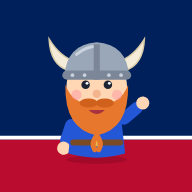
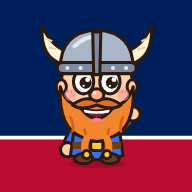
Bjørn im Chibi-Cartoon-Stil
Claude-Session: https://claude.ai/code/session_01EWWKx9F14VDz1Kb1QUJoeS

Changed region(s): [[0.1875, 0.125, 0.8125, 0.875]]

diff --git a/viking.js b/viking.js
@@ -3,39 +3,60 @@
 "use strict";
 function svg(mood) {
   const cheer = mood === "cheer", sad = mood === "sad", wave = mood === "happy" || mood === "wave";
+  const O = 'stroke="#2b1a10" stroke-width="3" stroke-linejoin="round" stroke-linecap="round"';
+  // Riesenaugen
   const eyes = cheer
-    ? `<path d="M44 61 Q49 55 54 61" class="vk-line"/><path d="M66 61 Q71 55 76 61" class="vk-line"/>`
-    : `<circle cx="49" cy="60" r="4.2" fill="#1d2433"/><circle cx="71" cy="60" r="4.2" fill="#1d2433"/><circle cx="50.4" cy="58.6" r="1.4" fill="#fff"/><circle cx="72.4" cy="58.6" r="1.4" fill="#fff"/>`;
-  const brows = sad ? `<path d="M43 51 L54 54" class="vk-line"/><path d="M77 51 L66 54" class="vk-line"/>` : "";
+    ? `<path d="M38 60 Q47 49 56 60" ${O} fill="none" stroke-width="4"/><path d="M64 60 Q73 49 82 60" ${O} fill="none" stroke-width="4"/>`
+    : `<ellipse cx="47" cy="57" rx="10" ry="12" fill="#fff" ${O}/><ellipse cx="73" cy="57" rx="10" ry="12" fill="#fff" ${O}/>
+       <circle cx="${sad ? 46 : 49}" cy="${sad ? 61 : 58}" r="6" fill="#2b1a10"/><circle cx="${sad ? 72 : 75}" cy="${sad ? 61 : 58}" r="6" fill="#2b1a10"/>
+       <circle cx="${sad ? 48 : 51}" cy="${sad ? 58 : 55}" r="2.4" fill="#fff"/><circle cx="${sad ? 74 : 77}" cy="${sad ? 58 : 55}" r="2.4" fill="#fff"/>
+       <circle cx="${sad ? 44 : 47}" cy="${sad ? 63 : 61}" r="1.1" fill="#fff"/><circle cx="${sad ? 70 : 73}" cy="${sad ? 63 : 61}" r="1.1" fill="#fff"/>`;
+  const brows = sad
+    ? `<path d="M36 44 Q44 38 54 44" fill="none" stroke="#c4501a" stroke-width="5" stroke-linecap="round" transform="rotate(14 45 42)"/><path d="M66 44 Q76 38 84 44" fill="none" stroke="#c4501a" stroke-width="5" stroke-linecap="round" transform="rotate(-14 75 42)"/>`
+    : `<path d="M36 42 Q45 34 55 41" fill="none" stroke="#c4501a" stroke-width="5" stroke-linecap="round"/><path d="M65 41 Q75 34 84 42" fill="none" stroke="#c4501a" stroke-width="5" stroke-linecap="round"/>`;
   const mouth = sad
-    ? `<path d="M53 88 Q60 84 67 88" class="vk-line"/>`
-    : cheer ? `<path d="M50 84 Q60 98 70 84 Z" fill="#a8323e"/><path d="M54 90 Q60 94 66 90" fill="#f08a96"/>`
-    : `<path d="M52 85 Q60 93 68 85 Z" fill="#a8323e"/>`;
-  // Arme: links/rechts, angehoben beim Jubeln, rechts winkt
-  const armL = cheer ? `rotate(-140 36 96)` : `rotate(18 36 96)`;
-  const armR = cheer ? `rotate(140 84 96)` : wave ? `rotate(-130 84 96)` : `rotate(-18 84 96)`;
-  return `<svg viewBox="0 0 120 140" aria-hidden="true">
-  <ellipse cx="60" cy="134" rx="30" ry="4" fill="rgba(0,0,0,.12)"/>
-  <g transform="${armL}"><rect x="30" y="94" width="12" height="28" rx="6" fill="#2457d6"/><circle cx="36" cy="124" r="6.5" fill="#ffd7b5"/></g>
-  <g class="${wave && !cheer ? "vk-wave" : ""}" style="transform-origin:84px 96px"><g transform="${armR}"><rect x="78" y="94" width="12" height="28" rx="6" fill="#2457d6"/><circle cx="84" cy="124" r="6.5" fill="#ffd7b5"/>
-    ${cheer ? `<g transform="translate(80 120) rotate(180)"><rect x="-1" y="0" width="2" height="24" fill="#8a5a2b"/><rect x="1" y="0" width="16" height="11" fill="#ba0c2f"/><rect x="5" y="0" width="3" height="11" fill="#fff"/><rect x="1" y="4" width="16" height="3" fill="#fff"/><rect x="5.8" y="0" width="1.4" height="11" fill="#00205b"/><rect x="1" y="4.8" width="16" height="1.4" fill="#00205b"/></g>` : ""}</g></g>
-  <path d="M36 92 Q60 84 84 92 L88 128 Q60 136 32 128 Z" fill="#2457d6"/>
-  <rect x="34" y="114" width="52" height="6" rx="3" fill="#7a4a24"/><rect x="56" y="113" width="8" height="8" rx="2" fill="#e8b84a"/>
-  <circle cx="60" cy="62" r="30" fill="#ffd7b5"/>
-  <path d="M29 60 Q28 104 60 110 Q92 104 91 60 Q84 80 60 80 Q36 80 29 60 Z" fill="#e8772e"/>
-  <path d="M60 110 Q54 118 58 124 M60 110 Q66 118 62 124" stroke="#e8772e" stroke-width="5" stroke-linecap="round" fill="none"/>
-  <ellipse cx="52" cy="78" rx="9" ry="4.5" fill="#d0611c"/><ellipse cx="68" cy="78" rx="9" ry="4.5" fill="#d0611c"/>
+    ? `<path d="M50 90 Q55 85 60 89 Q65 85 70 90" fill="none" ${O}/>`
+    : cheer
+    ? `<path d="M40 82 Q60 112 80 82 Q60 90 40 82 Z" fill="#7a1f2b" ${O}/><path d="M44 84 Q60 89 76 84 L74 88 Q60 92 46 88 Z" fill="#fff"/><path d="M50 99 Q60 92 70 99 Q60 106 50 99Z" fill="#ff7a8a"/>`
+    : `<path d="M44 83 Q60 104 76 83 Q60 89 44 83 Z" fill="#7a1f2b" ${O}/><path d="M47 84.5 Q60 88 73 84.5 L72 87.5 Q60 90 48 87.5 Z" fill="#fff"/><path d="M53 95 Q60 90 67 95 Q60 99 53 95Z" fill="#ff7a8a"/>`;
+  const armL = cheer ? `rotate(-145 40 104)` : `rotate(25 40 104)`;
+  const armR = cheer ? `rotate(145 80 104)` : wave ? `rotate(-135 80 104)` : `rotate(-25 80 104)`;
+  const flag = cheer ? `<g transform="translate(76 124) rotate(180)"><rect x="-1.5" y="-2" width="3" height="26" fill="#8a5a2b" ${O} stroke-width="2"/><g transform="translate(1.5 0)"><rect width="20" height="14" fill="#ba0c2f" ${O} stroke-width="2"/><rect x="5" width="4" height="14" fill="#fff"/><rect y="5" width="20" height="4" fill="#fff"/><rect x="6" width="2" height="14" fill="#00205b"/><rect y="6" width="20" height="2" fill="#00205b"/></g></g>` : "";
+  return `<svg viewBox="0 -4 120 146" aria-hidden="true">
+  <ellipse cx="60" cy="138" rx="28" ry="4" fill="rgba(0,0,0,.15)"/>
+  <!-- Arme -->
+  <g transform="${armL}"><rect x="34" y="100" width="13" height="24" rx="6.5" fill="#3a6df0" ${O}/><circle cx="40.5" cy="126" r="7" fill="#ffcfa6" ${O}/></g>
+  <g class="${wave && !cheer ? "vk-wave" : ""}" style="transform-origin:80px 104px"><g transform="${armR}"><rect x="73" y="100" width="13" height="24" rx="6.5" fill="#3a6df0" ${O}/><circle cx="79.5" cy="126" r="7" fill="#ffcfa6" ${O}/>${flag}</g></g>
+  <!-- Körper -->
+  <path d="M38 102 Q60 92 82 102 L86 130 Q60 138 34 130 Z" fill="#3a6df0" ${O}/>
+  <path d="M36 120 L84 120" stroke="#6b3d1c" stroke-width="7"/><rect x="54" y="115" width="12" height="10" rx="3" fill="#ffc83d" ${O} stroke-width="2"/>
+  <ellipse cx="47" cy="133" rx="9" ry="5" fill="#6b3d1c" ${O} stroke-width="2.5"/><ellipse cx="73" cy="133" rx="9" ry="5" fill="#6b3d1c" ${O} stroke-width="2.5"/>
+  <!-- Hörner -->
+  <path d="M27 40 Q4 34 6 2 Q16 24 34 28 Z" fill="#fff4dc" ${O}/><path d="M9 14 L16 17 M12 23 L20 25" stroke="#e4d2a8" stroke-width="2"/>
+  <path d="M93 40 Q116 34 114 2 Q104 24 86 28 Z" fill="#fff4dc" ${O}/><path d="M111 14 L104 17 M108 23 L100 25" stroke="#e4d2a8" stroke-width="2"/>
+  <!-- Kopf -->
+  <circle cx="60" cy="58" r="35" fill="#ffcfa6" ${O}/>
+  <ellipse cx="25" cy="62" rx="5" ry="7" fill="#ffcfa6" ${O}/><ellipse cx="95" cy="62" rx="5" ry="7" fill="#ffcfa6" ${O}/>
+  <!-- Bart mit Zöpfen -->
+  <path d="M24 62 Q22 104 46 112 Q60 120 74 112 Q98 104 96 62 Q90 80 78 80 Q60 76 42 80 Q30 80 24 62 Z" fill="#f2862e" ${O}/>
+  <path d="M34 92 Q38 100 36 106 M86 92 Q82 100 84 106 M48 104 Q50 110 48 114 M72 104 Q70 110 72 114" stroke="#d0611c" stroke-width="2.5" fill="none" stroke-linecap="round"/>
+  <path d="M50 113 Q46 122 50 128 M70 113 Q74 122 70 128" stroke="#f2862e" stroke-width="7" stroke-linecap="round" fill="none"/>
+  <circle cx="50" cy="129" r="4" fill="#ffc83d" ${O} stroke-width="2"/><circle cx="70" cy="129" r="4" fill="#ffc83d" ${O} stroke-width="2"/>
   ${mouth}
-  <circle cx="40" cy="70" r="5" fill="#ff9aa2" opacity=".55"/><circle cx="80" cy="70" r="5" fill="#ff9aa2" opacity=".55"/>
+  <!-- Schnurrbart -->
+  <path d="M60 76 Q48 70 36 80 Q44 86 60 80 Q76 86 84 80 Q72 70 60 76 Z" fill="#e0701f" ${O}/>
+  <circle cx="34" cy="70" r="6" fill="#ff8f9c" opacity=".55"/><circle cx="86" cy="70" r="6" fill="#ff8f9c" opacity=".55"/>
+  <circle cx="31" cy="66" r="1" fill="#d98b62"/><circle cx="35" cy="67" r="1" fill="#d98b62"/><circle cx="89" cy="66" r="1" fill="#d98b62"/><circle cx="85" cy="67" r="1" fill="#d98b62"/>
   ${eyes}${brows}
-  <circle cx="60" cy="69" r="4" fill="#f4b48d"/>
-  <path d="M32 46 Q14 40 13 15 Q24 33 39 37 Z" fill="#f4ecd8" stroke="#d9cba8" stroke-width="1.5"/>
-  <path d="M88 46 Q106 40 107 15 Q96 33 81 37 Z" fill="#f4ecd8" stroke="#d9cba8" stroke-width="1.5"/>
-  <path d="M28 52 Q30 20 60 18 Q90 20 92 52 Z" fill="#9aa7b8"/>
-  <path d="M40 30 Q50 22 60 22" stroke="#c9d2de" stroke-width="3" stroke-linecap="round" fill="none"/>
-  <rect x="26" y="46" width="68" height="9" rx="4.5" fill="#7b8798"/>
-  <rect x="57" y="20" width="6" height="35" fill="#7b8798"/>
-  <circle cx="36" cy="50.5" r="1.8" fill="#c9d2de"/><circle cx="48" cy="50.5" r="1.8" fill="#c9d2de"/><circle cx="72" cy="50.5" r="1.8" fill="#c9d2de"/><circle cx="84" cy="50.5" r="1.8" fill="#c9d2de"/>
+  <ellipse cx="60" cy="70" rx="7" ry="6" fill="#ffad85" ${O}/><circle cx="58" cy="68" r="1.8" fill="#fff" opacity=".8"/>
+  <!-- Helm -->
+  <path d="M24 44 Q24 8 60 6 Q96 8 96 44 Z" fill="#a9b6c7" ${O}/>
+  <path d="M38 22 Q48 12 60 12" stroke="#e3e9f1" stroke-width="4" stroke-linecap="round" fill="none"/>
+  <rect x="21" y="38" width="78" height="11" rx="5.5" fill="#7d8aa0" ${O}/>
+  <path d="M56 8 L64 8 L63 50 L57 50 Z" fill="#7d8aa0" ${O} stroke-width="2.5"/>
+  <circle cx="31" cy="43.5" r="2" fill="#e3e9f1"/><circle cx="44" cy="43.5" r="2" fill="#e3e9f1"/><circle cx="76" cy="43.5" r="2" fill="#e3e9f1"/><circle cx="89" cy="43.5" r="2" fill="#e3e9f1"/>
+  ${sad ? `<path d="M100 30 Q104 38 100 42 Q96 38 100 30Z" fill="#7ec8ff" ${O} stroke-width="2"/>` : ""}
+  ${cheer ? `<path d="M10 52 L4 48 M12 62 L4 63 M110 52 L116 48 M108 62 L116 63" stroke="#ffc83d" stroke-width="3" stroke-linecap="round"/>` : ""}
 </svg>`;
 }
 const PH = {

diff --git a/sw.js b/sw.js
@@ -1,4 +1,4 @@
-const CACHE = "norsk-v4";
+const CACHE = "norsk-v5";
 const FILES = ["./", "index.html", "style.css", "app.js", "data.js", "syll.js", "dialogs.js", "viking.js", "manifest.webmanifest", "icon.svg", "icon-192.png", "icon-512.png"];
 self.addEventListener("install", e => { e.waitUntil(caches.open(CACHE).then(c => c.addAll(FILES))); self.skipWaiting(); });
 self.addEventListener("activate", e => { e.waitUntil(caches.keys().then(ks => Promise.all(ks.filter(k => k !== CACHE).map(k => caches.delete(k))))); self.clients.claim(); });
